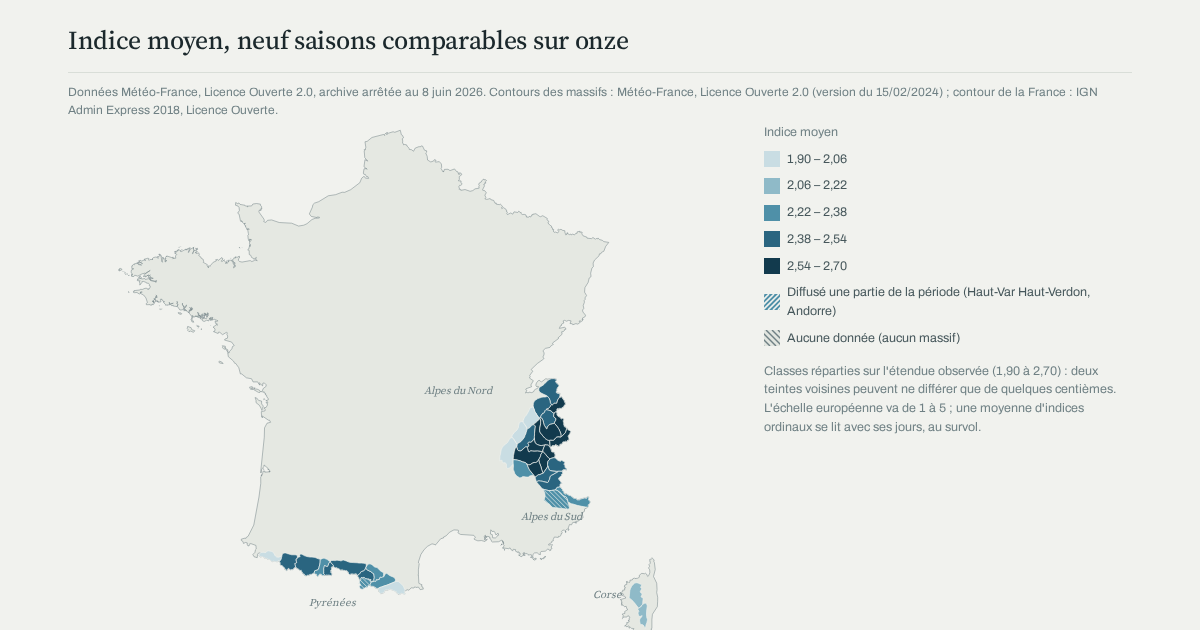
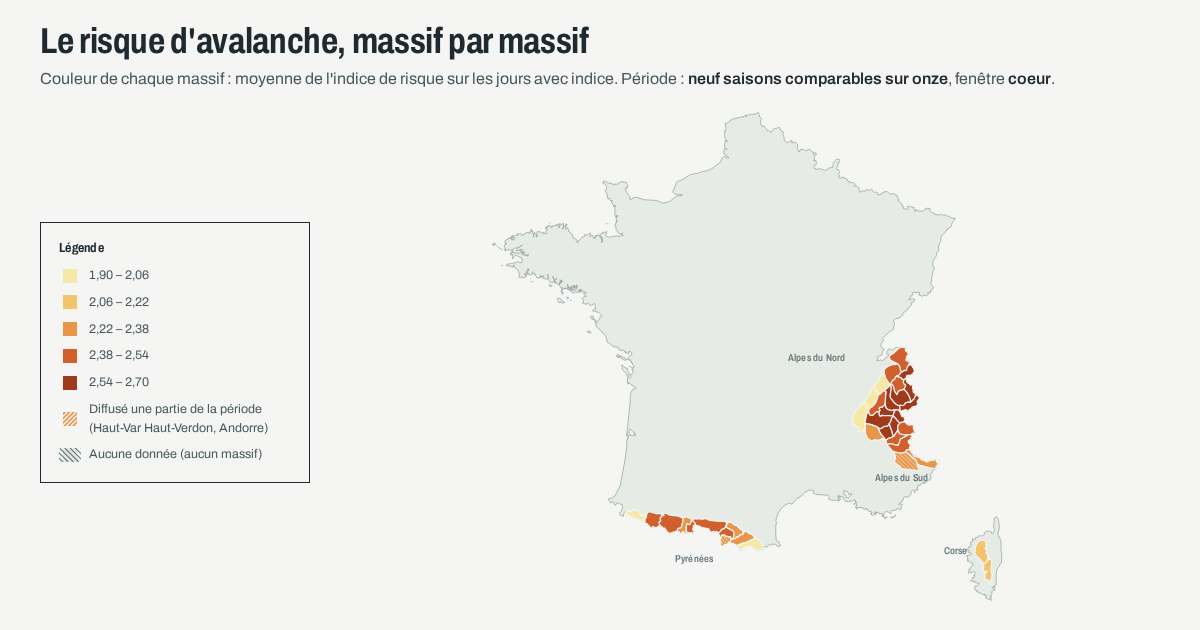
Apercu du site (og:image) recadre sur la nouvelle carte
Titre, phrase de lecture et carte en grand avec sa legende ; commandes,
exports, textes d'explication et reperes retires de l'image.

diff --git a/scripts/apercu.py b/scripts/apercu.py
@@ -37,9 +37,16 @@ def main() -> None:
     with tempfile.TemporaryDirectory() as tmp:
         site = Path(tmp) / "site"
         generer("warehouse/bra.duckdb", site, allow_dirty=True)
-        # La carte est sous l'en-tete : on le masque, c'est elle que l'apercu doit montrer.
+        # Image de lien : le titre, la phrase qui dit ce que la couleur mesure, la carte en grand et
+        # sa legende. Commandes, exports, textes
+        # d'explication et reperes sont retires : ils ne se lisent pas a cette taille.
         page = site / "carte.html"
-        cadrage = "<style>header,.bar,.kpis,.sous,.partage-nav{display:none}.panel{border:0}.carte svg{max-height:540px}</style></html>"
+        cadrage = ("<style>.partage-nav,.lede details,.metriques,.echelle,.cote .toggle,.exports,.zoom,.reperes,"
+                   ".tables,footer{display:none!important}"
+                   ".wrap{padding:0 40px}header{padding:22px 0 4px}h1{font-size:36px}.lede{font-size:16px;margin-top:6px;max-width:none}"
+                   ".vue{grid-template-columns:270px minmax(0,1fr)!important;column-gap:24px}"
+                   ".vue>.cote{position:static;margin-top:120px;box-shadow:none}"
+                   ".carte svg{height:510px!important;min-height:0!important}</style></html>")
         page.write_text(page.read_text(encoding="utf-8").replace("</html>", cadrage), encoding="utf-8")
         subprocess.run(
             [chromium(), "--no-sandbox", "--disable-gpu", "--hide-scrollbars", "--window-size=1200,630",
